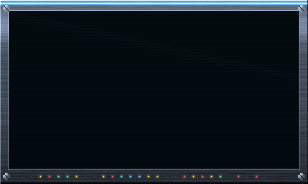
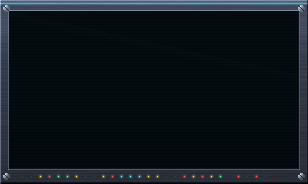
Tone the console skin down to matte dark blue-grey steel
The specular band read as polished chrome; the frame is now low-gloss
dark blue-grey (BASE 66,74,90) with a gentle top light, quieter brushed
grain and scratches, a dimmer machined lip, and the cyan conduit pulled
back to a thin accent line. The screens, LEDs and buttons carry the
contrast instead of the metal.

https://claude.ai/code/session_015c2gT85z4W1oS4PGFX8st7

diff --git a/assets/gen_hud_skin.py b/assets/gen_hud_skin.py
@@ -21,7 +21,7 @@ from common import write_png, value_noise, clamp8  # noqa: E402
 
 OUT = os.path.join(os.path.dirname(__file__), "hud")
 
-BASE = (96, 108, 128)  # steel blue, lit value; shading multiplies this
+BASE = (66, 74, 90)  # dark blue-grey steel; shading multiplies this
 GLOW = (70, 200, 245)
 SCREEN = (3, 9, 14)  # the dark display well (deep blue-green black)
 
@@ -57,26 +57,26 @@ class Img:
 
 
 def metal_base(img, seed):
-    """Steel with a specular reflection band and brushed horizontal grain."""
+    """Matte dark steel: a gentle top light and brushed horizontal grain
+    (kept deliberately low-gloss; the lights and screens do the talking)."""
     w, h = img.w, img.h
     for y in range(h):
         t = y / max(h - 1, 1)
-        shade = 0.80 - 0.40 * t
-        shade += 0.55 * math.exp(-(((t - 0.14) / 0.09) ** 2))  # spec band
-        shade += 0.10 * math.exp(-(((t - 0.55) / 0.25) ** 2))
-        streak = (value_noise(0.0, y * 1.7, seed) - 0.5) * 0.16
+        shade = 0.92 - 0.30 * t
+        shade += 0.18 * math.exp(-(((t - 0.14) / 0.10) ** 2))  # soft sheen
+        streak = (value_noise(0.0, y * 1.7, seed) - 0.5) * 0.12
         for x in range(w):
-            grain = (value_noise(x * 0.05, y * 1.7, seed + 7) - 0.5) * 0.10
-            fine = (value_noise(x * 0.45, y * 2.3, seed + 13) - 0.5) * 0.05
+            grain = (value_noise(x * 0.05, y * 1.7, seed + 7) - 0.5) * 0.08
+            fine = (value_noise(x * 0.45, y * 2.3, seed + 13) - 0.5) * 0.04
             v = shade + streak + grain + fine
             img.put(x, y, (BASE[0] * v, BASE[1] * v, BASE[2] * v))
-    for k in range(w // 60):  # sparse scratches catching the light
+    for k in range(w // 60):  # sparse scratches, barely catching the light
         y = int(value_noise(k * 3.1, 0.7, seed + 31) * (h - 8)) + 4
         x0 = int(value_noise(k * 5.7, 3.3, seed + 37) * w * 0.7)
         ln = 30 + int(value_noise(k * 1.9, 9.1, seed + 41) * 90)
         for x in range(x0, min(x0 + ln, w)):
-            img.add(x, y, (70, 80, 95), 0.25)
-            img.blend(x, y + 1, (10, 12, 18), 0.2)
+            img.add(x, y, (45, 52, 62), 0.18)
+            img.blend(x, y + 1, (10, 12, 18), 0.15)
 
 
 def screen(img, x0, y0, x1, y1, seed, tint=(0, 14, 10)):
@@ -195,14 +195,14 @@ def edge_trim(img):
     Corners stay SHARP: no chamfers, just crisp square edges."""
     w, h = img.w, img.h
     for x in range(w):
-        img.put(x, 0, (210, 225, 245))
-        img.blend(x, 1, (120, 140, 165), 0.8)
+        img.put(x, 0, (130, 145, 168))
+        img.blend(x, 1, (84, 96, 116), 0.7)
     for x in range(w):
         flick = 0.85 + 0.15 * value_noise(x * 0.07, 1.0, 5)
-        img.put(x, 3, (200, 245, 255))
-        for d in range(1, 4):
-            img.add(x, 3 - d, GLOW, flick * 0.5 / (d * d))
-            img.add(x, 3 + d, GLOW, flick * 0.5 / (d * d))
+        img.blend(x, 3, (110, 190, 215), 0.8)
+        for d in range(1, 3):
+            img.add(x, 3 - d, GLOW, flick * 0.22 / (d * d))
+            img.add(x, 3 + d, GLOW, flick * 0.22 / (d * d))
     for x in range(w):
         img.blend(x, h - 2, (8, 10, 16), 0.7)
         img.put(x, h - 1, (3, 5, 9))
